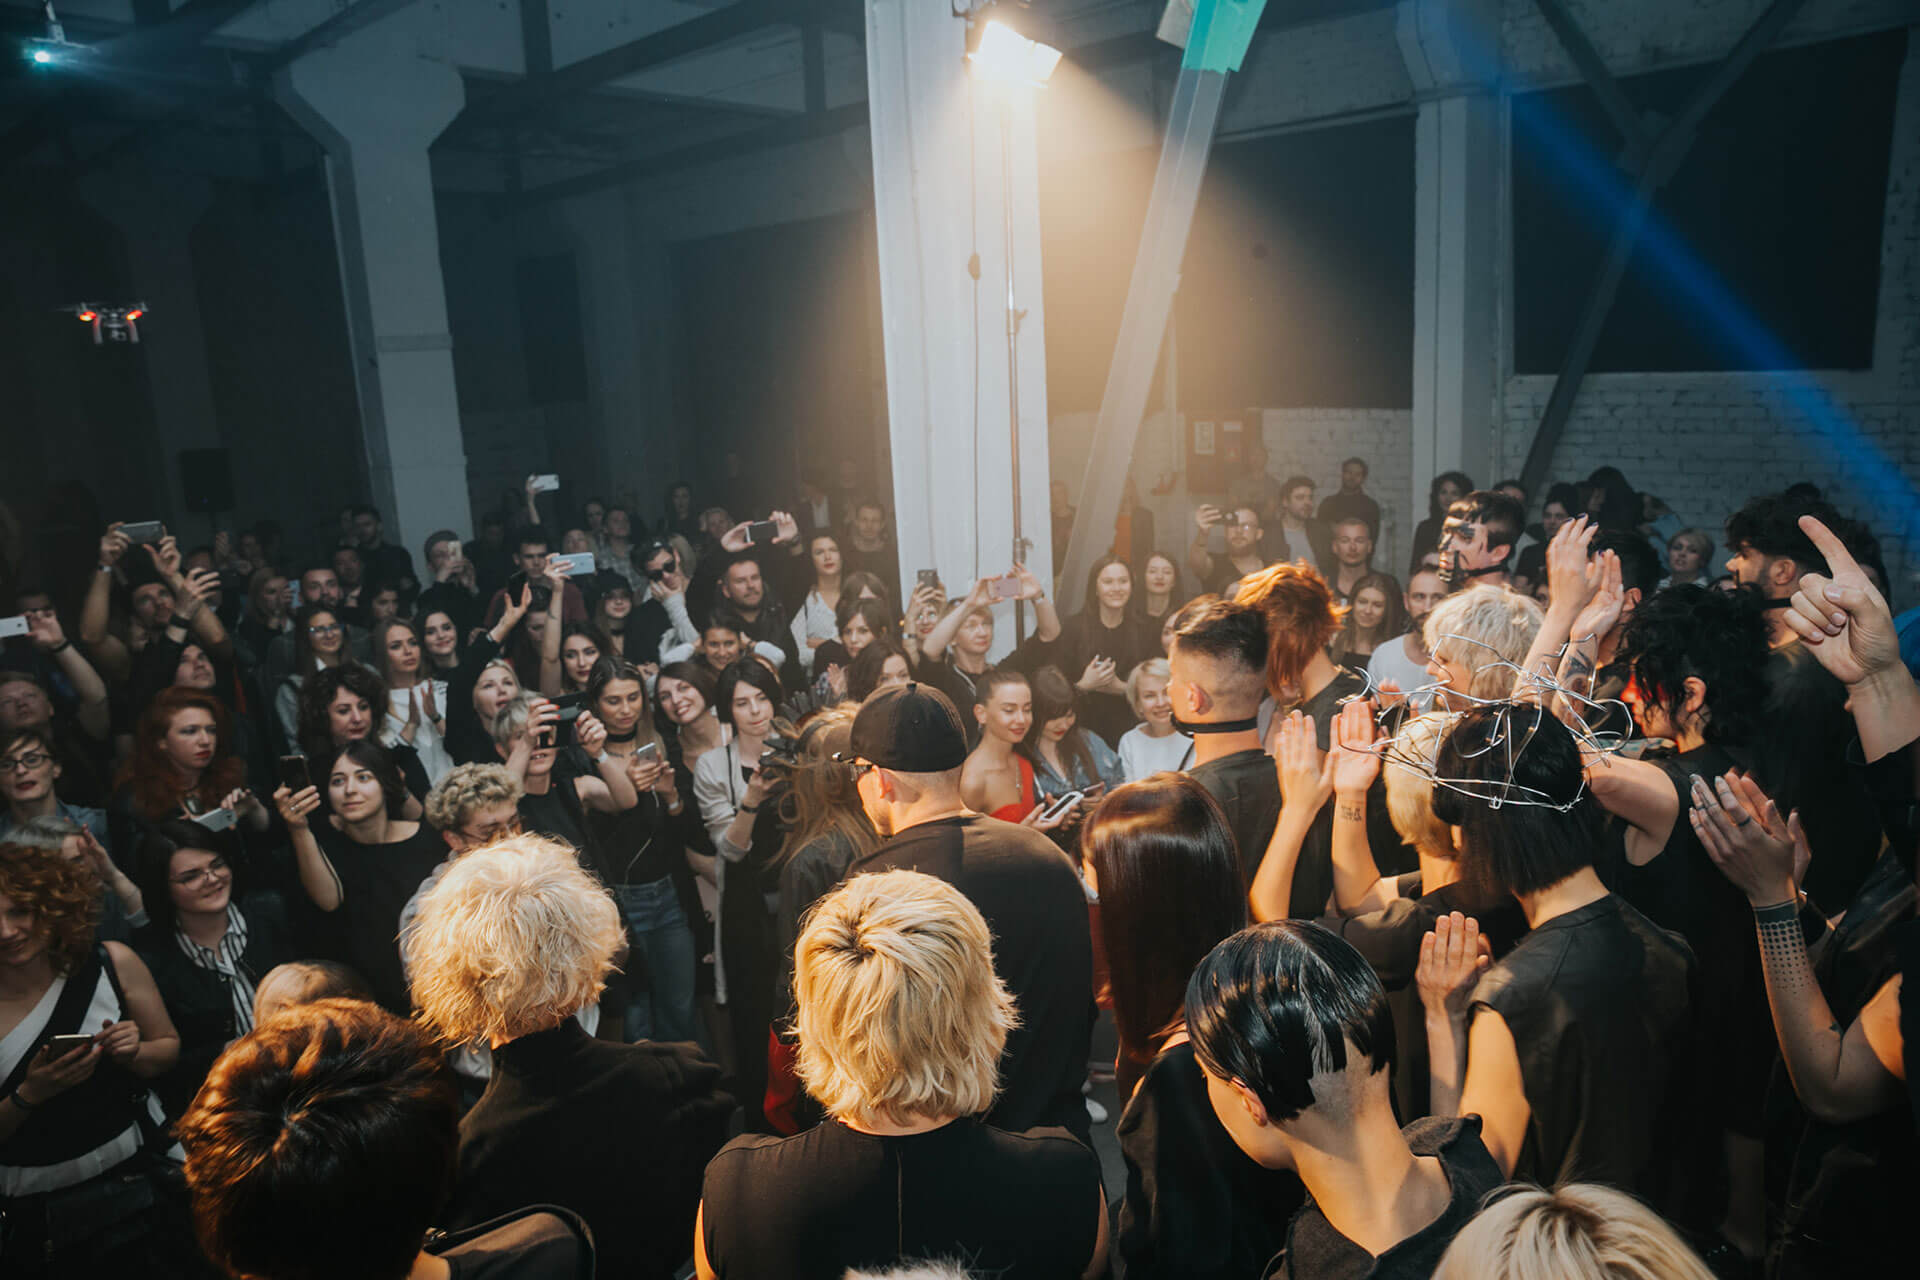
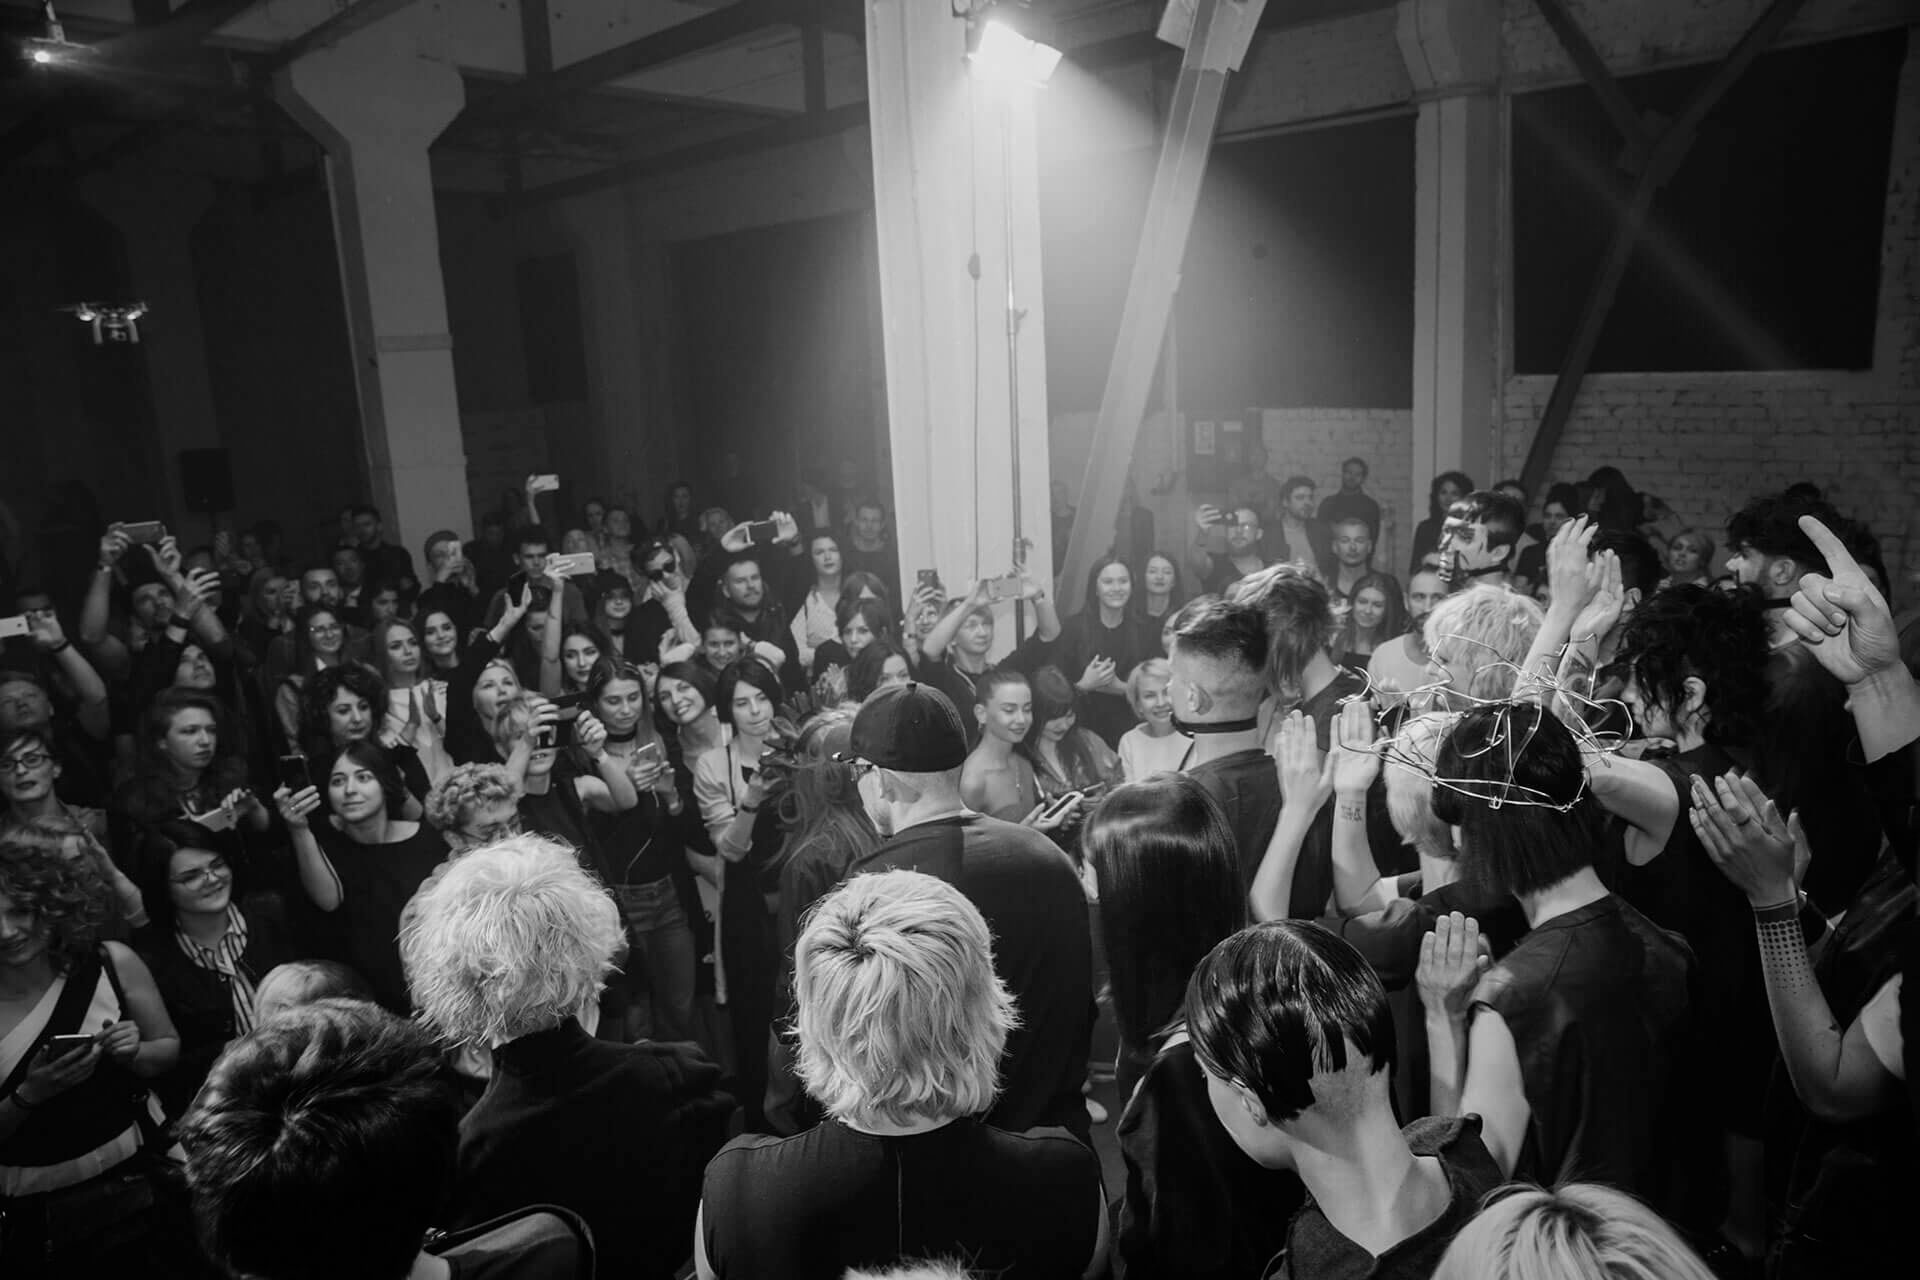
basic cinema update

diff --git a/public/stylesheets/sass/modules/client/_philosophy.scss b/public/stylesheets/sass/modules/client/_philosophy.scss
@@ -390,7 +390,15 @@
  &.philosophy-about--cinema-1 .philosophy-about__bg {background-image: url(../../img/client/philosophy/philosophy-about-cinema-1.jpg); filter: grayscale(1);}
  &.philosophy-about--cinema-2 .philosophy-about__bg {background-image: url(../../img/client/philosophy/philosophy-about-cinema-2.jpg); filter: grayscale(1);}
  &.philosophy-about--cinema-3 .philosophy-about__bg {background-image: url(../../img/client/philosophy/philosophy-about-cinema-3.jpg); filter: grayscale(1);}
- &.philosophy-about--cinema-4 .philosophy-about__bg {background-image: url(../../img/client/philosophy/philosophy-about-cinema-4.jpg); filter: grayscale(1);}
+ &.philosophy-about--cinema-4 .philosophy-about__bg {background-image: url(../../img/client/philosophy/philosophy-about-cinema-4-1.jpg); filter: grayscale(1);}
+ &.philosophy-about--cinema-6 {
+
+  .philosophy-about__bg {background-image: url(../../img/client/philosophy/philosophy-about-cinema-6.jpg); filter: grayscale(1);}
+
+  .philosophy-about__main .philosophy-about__text {
+   max-width: 700px;
+  }
+ }
 }
 
 

diff --git a/public/stylesheets/sass/modules/lp/sp/_sp-about.scss b/public/stylesheets/sass/modules/lp/sp/_sp-about.scss
@@ -136,13 +136,24 @@
   }
  }
  &.sp-about--cinema {
-  background-image: url(../../../img/lp/sp/about/sp-about-cinema.jpg);
-  filter: grayscale(1);
+  background-image: url(../../../img/lp/sp/about/sp-about-cinema-1.jpg);
+  //filter: grayscale(1);
+  transition: 0.7s;
   @include mobile {
    height: 720px;
   }
 
   .sp-about-block {
+
+   .sp-about-block__main {
+
+    .sp-about-block__main-title {
+     width: 240px;
+     height: 82px;
+     background: url(../../../img/cinema-logo.png) no-repeat center / contain;
+     cursor: pointer;
+    }
+   }
 
    .sp-about-block__duration {
     @include mobile {
@@ -172,6 +183,10 @@
      color: $color-white-04;
     }
    }
+  }
+
+  &.sp-about--cinema-white {
+   background-image: url(../../../img/lp/sp/about/sp-about-cinema-2.jpg);
   }
  }
 }

diff --git a/public/stylesheets/sass/modules/lp/_cinema.scss b/public/stylesheets/sass/modules/lp/_cinema.scss
@@ -1,0 +1,23 @@
+.main #f {
+
+ .f-container {
+  width: 300px;
+  padding-top: 0!important;
+ }
+
+ .f-center {
+  width: 100%;
+  right: auto;
+ }
+
+ .f-block-sm .f-text-center .f-btn-link, .f-info {
+  display: none;
+ }
+ .f-mobile-menu {
+  display: none!important;
+ }
+
+ .f-form-control-feedback {
+  bottom: 5px;
+ }
+}

diff --git a/public/stylesheets/sass/index-lp.scss b/public/stylesheets/sass/index-lp.scss
@@ -23,6 +23,7 @@
 @import 'modules/lp/webinar';
 @import 'modules/lp/courses';
 @import 'modules/lp/gbw';
+@import 'modules/lp/cinema';
 @import 'modules/client/philosophy';
 // partials
 @import 'partials/lp/header';
